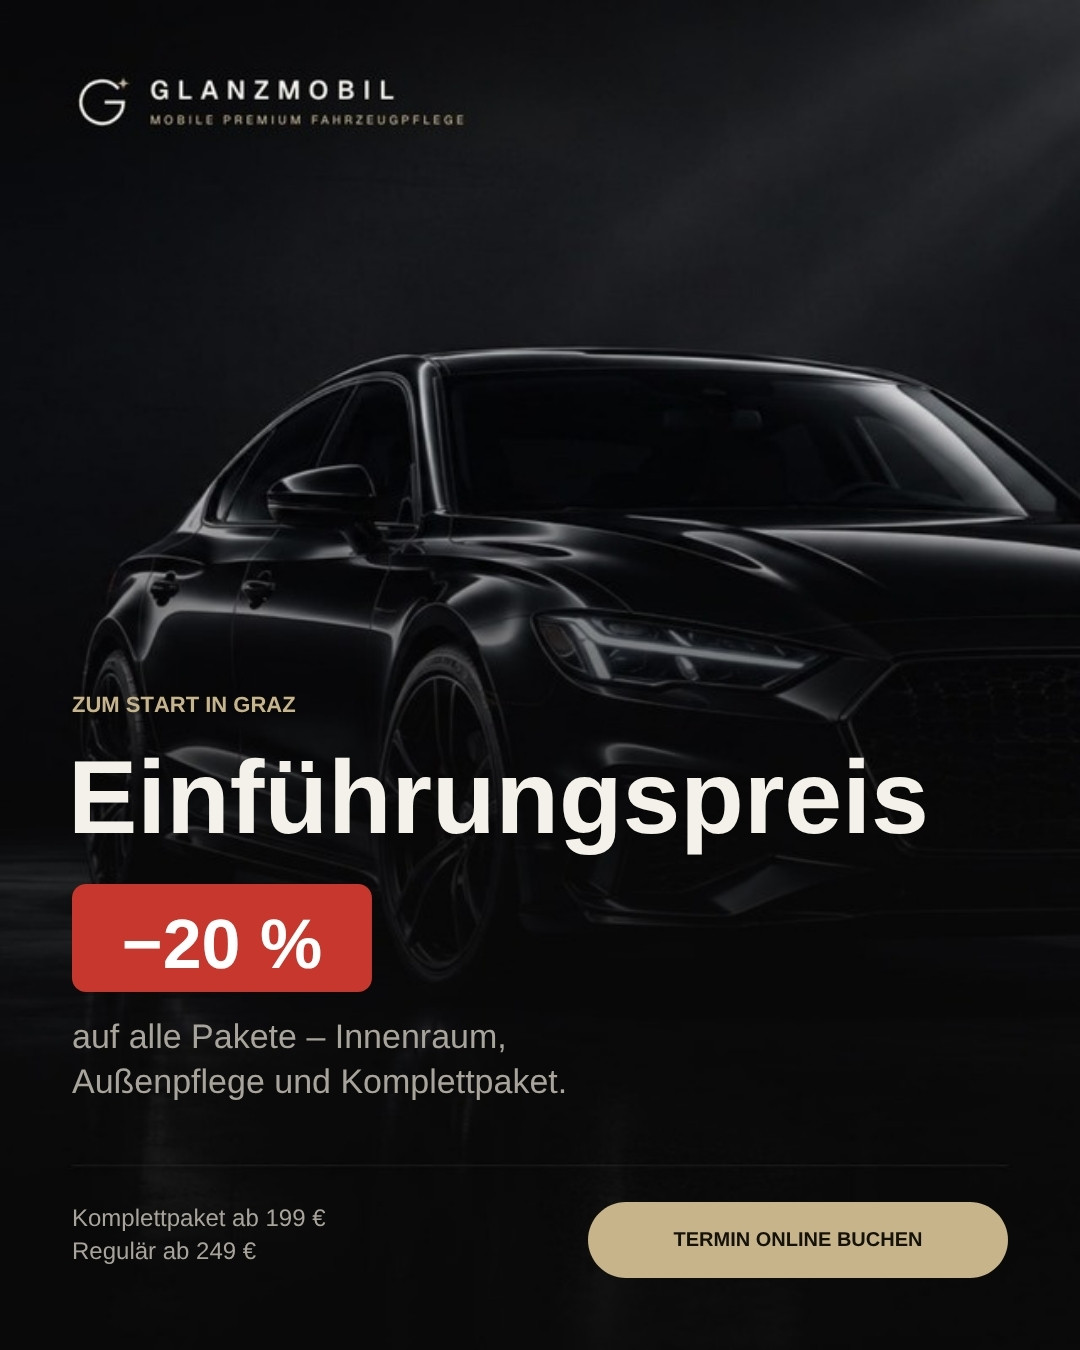
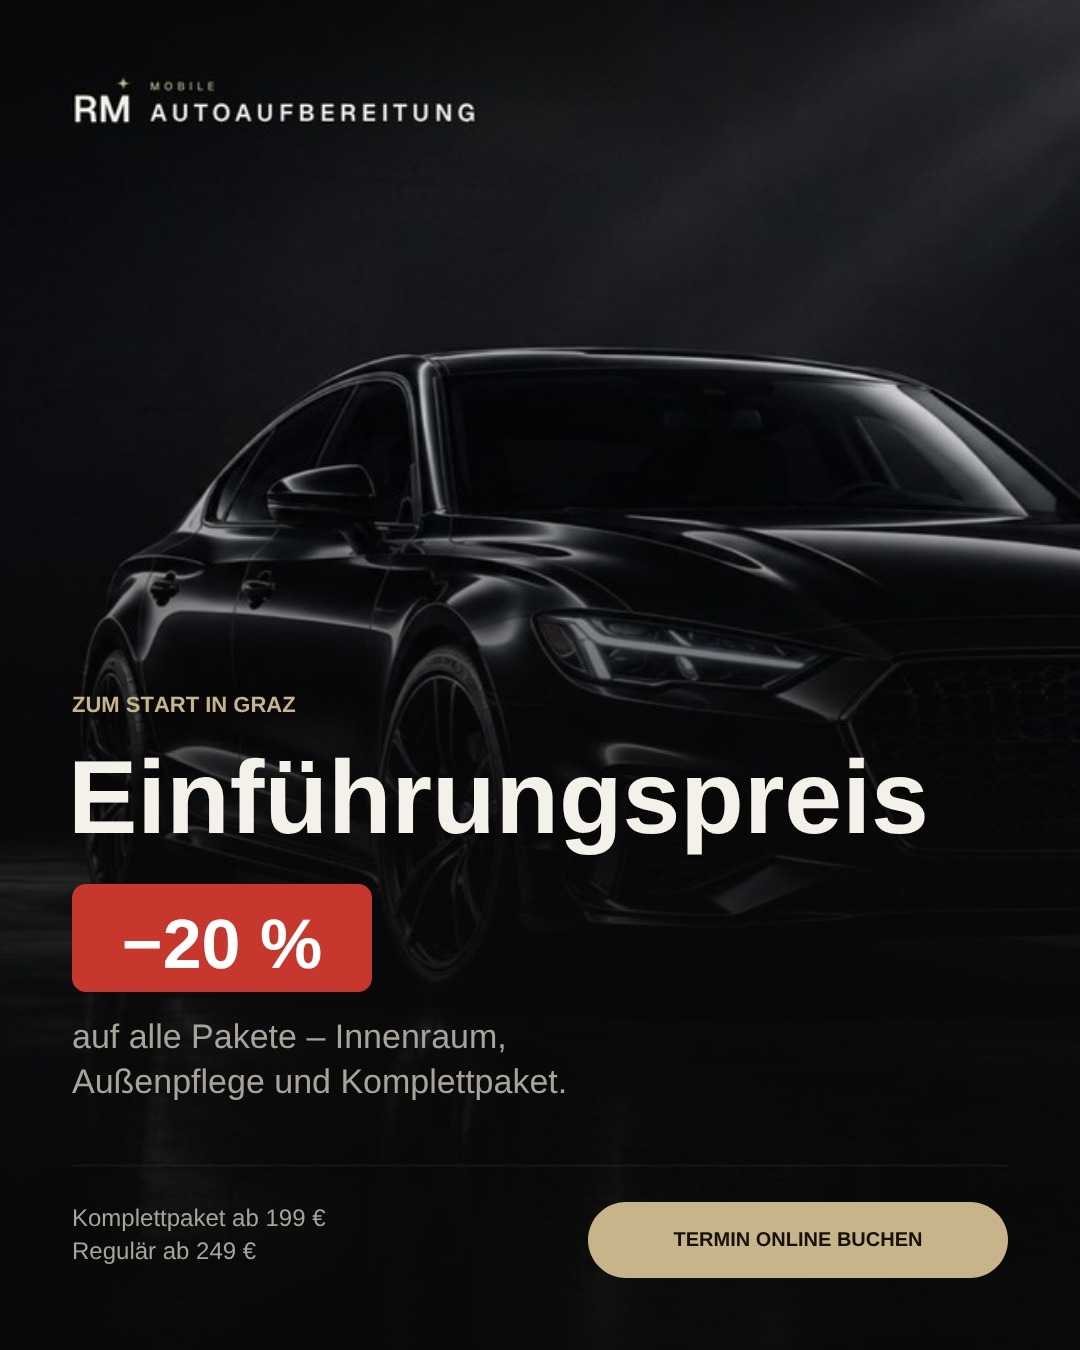
Canva-Exporte und Fotoquellen auf den neuen Namen umgestellt
- Canva-Designs umbenannt und mit neuem Logo/Profilbild/Vorlagen-Hintergründen
  aktualisiert; die acht Seiten neu als JPG exportiert (brand/canva)
- Fotoquellen: alter Designtitel in den eingebetteten Metadaten ersetzt
  (gleiche Länge, Bildinhalt unverändert)
- brand/README: Namen der Canva-Designs angepasst

Claude-Session: https://claude.ai/code/session_01Lhbg2XA58TpKcgcddHmVhk

Changed region(s): [[0.0611, 0.0622, 0.4583, 0.0933]]

diff --git a/brand/README.md b/brand/README.md
@@ -57,8 +57,8 @@ Erstellt im verbundenen Canva-Konto:
 
 | Design | Inhalt |
 | --- | --- |
-| **GLANZMOBIL Social-Media-Grafik** | Seite 1: Instagram-Post (1080×1440) · 2: Instagram-Story (1080×1920) · 3: Facebook-Titelbild (1640×624) · 4: Profilbild (1080×1080) · 5: Instagram-Vorlage „Einführungspreis“ · 6: Instagram-Vorlage „Leistung“ · 7: Instagram-Vorlage „Vorher/Nachher“ · 8: Werbebanner (1200×628). Auf den Seiten 5–8 sind Überschriften, Preise und Buttons **bearbeitbare Texte** |
-| **GLANZMOBIL Moodboard** | Bildwelt der Website; die Fotos (Hero, Innenraum, Handwäsche, Graz bei Nacht) wurden mit Canva generiert und von hier in voller Auflösung exportiert |
+| **RM Mobile Autoaufbereitung Social-Media-Grafik** | Seite 1: Instagram-Post (1080×1440) · 2: Instagram-Story (1080×1920) · 3: Facebook-Titelbild (1640×624) · 4: Profilbild (1080×1080) · 5: Instagram-Vorlage „Einführungspreis“ · 6: Instagram-Vorlage „Leistung“ · 7: Instagram-Vorlage „Vorher/Nachher“ · 8: Werbebanner (1200×628). Auf den Seiten 5–8 sind Überschriften, Preise und Buttons **bearbeitbare Texte** |
+| **RM Mobile Autoaufbereitung Moodboard** | Bildwelt der Website; die Fotos (Hero, Innenraum, Handwäsche, Graz bei Nacht) wurden mit Canva generiert und von hier in voller Auflösung exportiert |
 | Uploads | Logo-Varianten, Profilbild, Vorlagen-Hintergründe und das Designsystem-Board liegen in den Canva-Uploads |
 
 Exporte im Repository: `canva/instagram-post.jpg`, `canva/instagram-story.jpg`, `canva/facebook-titelbild.jpg`, `canva/profilbild.jpg`, `canva/instagram-vorlage-*.jpg`, `canva/werbebanner.jpg`, Fotoquellen unter `canva/source/`.
